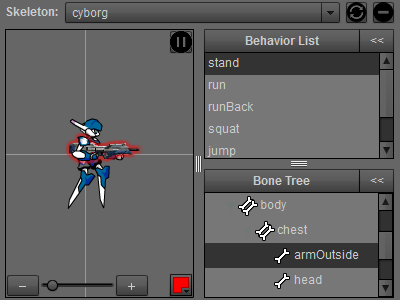
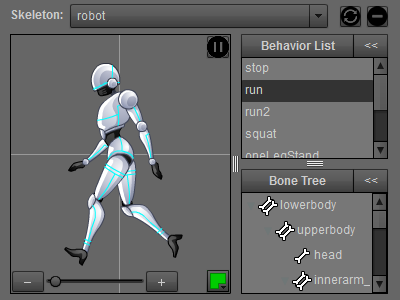
update a demo

diff --git a/demo.html b/demo.html
@@ -176,7 +176,7 @@
                             </div>
                         </div>
                       </li>
-                      <!--
+                      
                       <li class="span6">
                         <div class="thumbnail">
                             <div class="caption">
@@ -186,7 +186,7 @@
                             </div>
                         </div>
                       </li>
-                      -->
+                      
                     </ul>
                     
                 </div>
@@ -716,7 +716,8 @@
     <div class="modal hide fade" id="demo7_dialog">
         <div class="modal-header">
             <button class="close" data-dismiss="modal">×</button>
-            <h3>DragonBones Design Panel</h3>
+            <a href="dragonbones://'https://dragonbones.github.io/demo/resources/Robot_output.swf'" target="_blank"> <h3>DragonBones Design Panel</h3> </a>
+            
         </div>
         <div class="modal-body">
             <div class="row-fluid">
@@ -732,7 +733,7 @@
 <script src='demo/js/swfobject.js' type='text/javascript'></script>
 <script type='text/javascript'>
     $(document).ready(function() {
-        addSWF("demo/DragonBonesDesignPanel.swf","design_panel_demo",801,600,{data:"demo/resources/Cyborg_output.swf"});
+        addSWF("demo/DragonBonesDesignPanel.swf","design_panel_demo",801,600,{data:"demo/resources/Robot_output.swf"});
     })
 </script>
 
